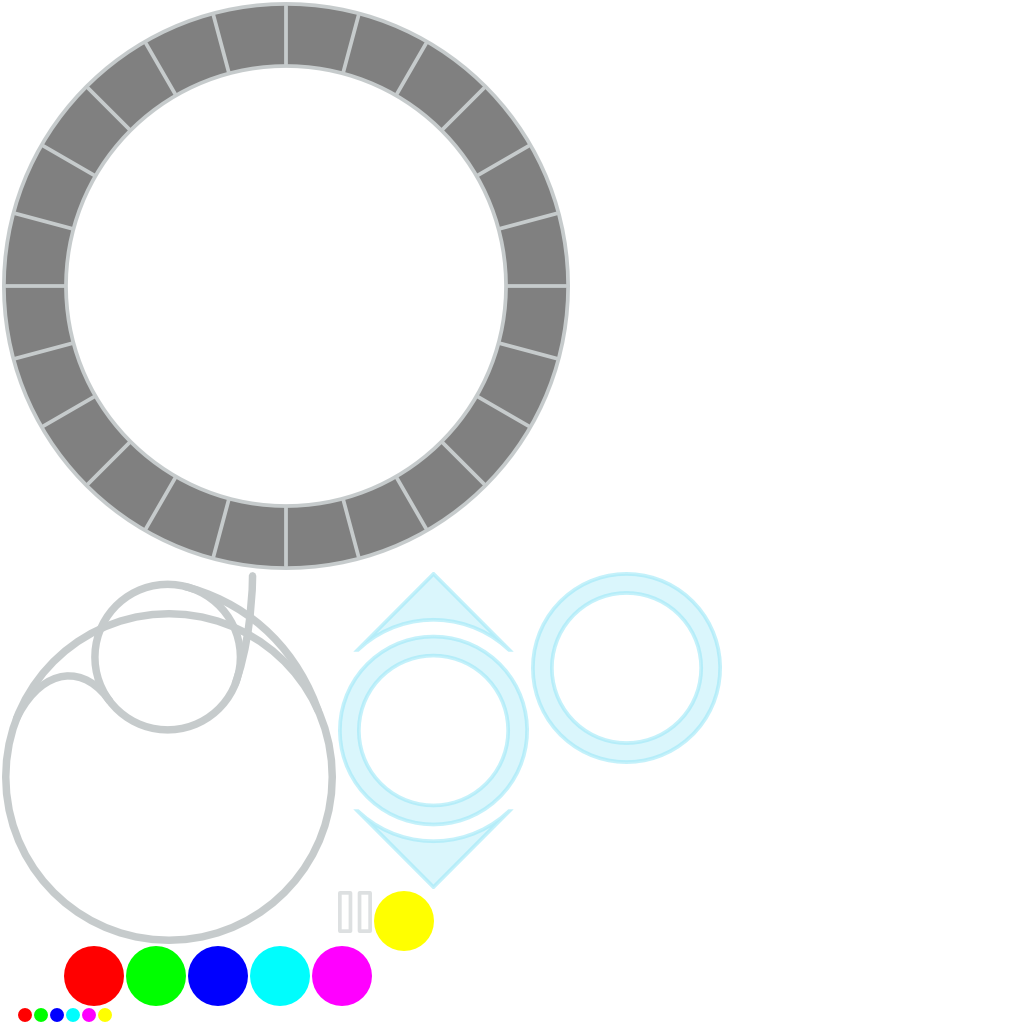
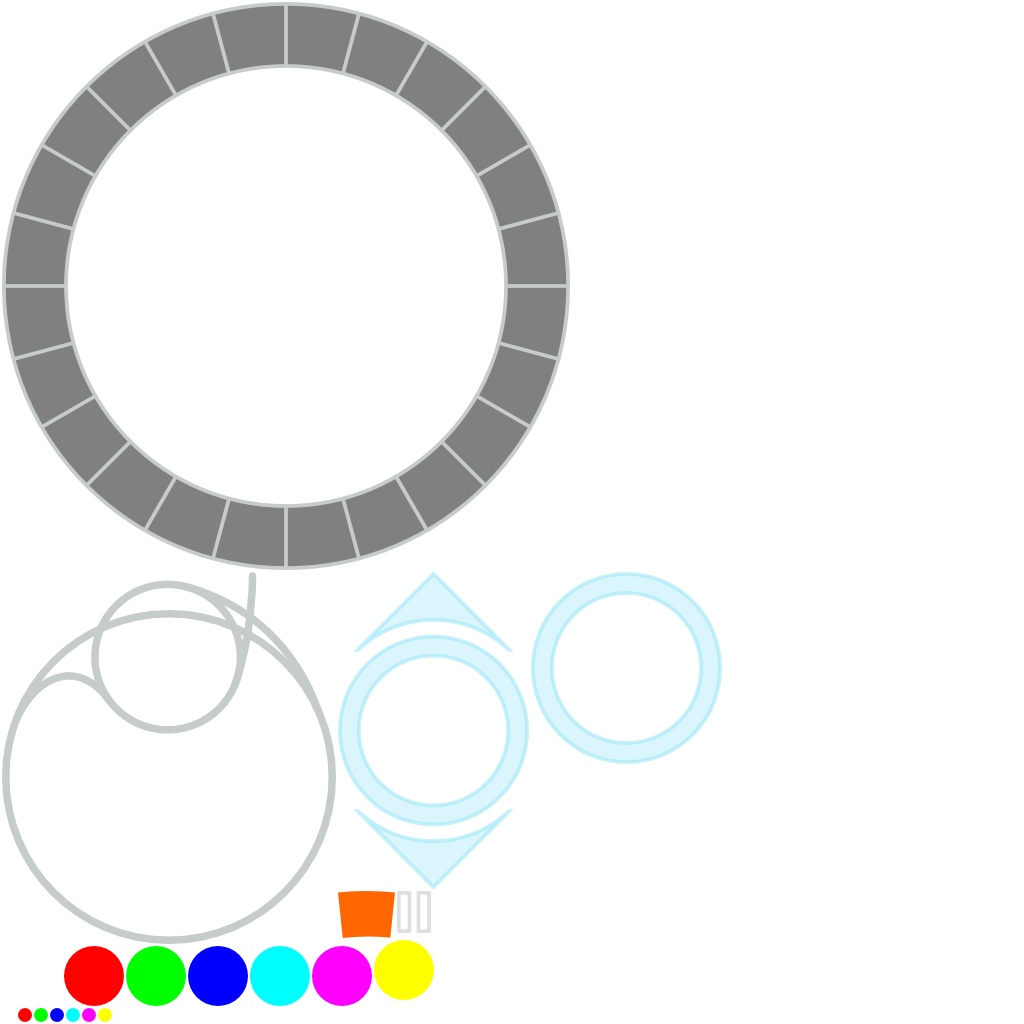
Blinking sensors.

Changed region(s): [[0.3125, 0.8438, 0.4375, 1.0]]

diff --git a/CharmQuark/Classes/LHCMap.m b/CharmQuark/Classes/LHCMap.m
@@ -33,7 +33,7 @@
     CGPoint antiClockPos = ccp(center.x + radius * cosf(antiClockwise),
                                center.y + radius * sinf(antiClockwise));
     [whitePacket setPosition:antiClockPos];
-
+    
 }
 
 -(void)setColor:(ParticleColors)color {
@@ -65,24 +65,11 @@
 }
 
 -(void)onEnter {
-    //        self.displayFrame = [CCSprite spriteWithSpriteFrameName:@"lhcmap.png"];
-    whitePacket = [CCSprite spriteWithSpriteFrameName:@"white-small.png"];
-    colorPacket = [CCSprite spriteWithSpriteFrameName:@"white-small.png"];
-    
-    //        [lhcMap setPosition:ccp(0,0)];
-    //        [self addChild:lhcMap z:0];
-    
-    radius = self.contentSize.height / 2.0 - whitePacket.contentSize.height / 4.0;
-    center = ccp(self.contentSize.width - self.contentSize.height / 2,
-                 self.contentSize.height / 2);
-    
-    clockwise = kcwStartAngle;
     CGPoint clockPos = ccp(center.x + radius * cosf(clockwise),
                            center.y + radius * sinf(clockwise));
     [colorPacket setPosition:clockPos];
     [self addChild:colorPacket z:10];
     
-    antiClockwise = kacwStartAngle;
     
     CGPoint antiClockPos = ccp(center.x + radius * cosf(antiClockwise),
                                center.y + radius * sinf(antiClockwise));
@@ -94,7 +81,20 @@
 
 -(id)init {
     // Load background LHCMap.png
-    return [super initWithSpriteFrameName:@"lhcmap.png"];
+    self = [super initWithSpriteFrameName:@"lhcmap.png"];
+    if (self) {
+        
+        whitePacket = [CCSprite spriteWithSpriteFrameName:@"white-small.png"];
+        colorPacket = [CCSprite spriteWithSpriteFrameName:@"white-small.png"];
+        
+        radius = self.contentSize.height / 2.0 - whitePacket.contentSize.height / 4.0;
+        center = ccp(self.contentSize.width - self.contentSize.height / 2,
+                     self.contentSize.height / 2);
+        
+        clockwise = kcwStartAngle;
+        antiClockwise = kacwStartAngle;
+    }    
+    return self;
 }
 
 @end

diff --git a/CharmQuark/Classes/Detector.m b/CharmQuark/Classes/Detector.m
@@ -1,0 +1,51 @@
+//
+//  Detector.m
+//  CharmQuark
+//
+//  Created by Nathan Babb on 7/19/12.
+//  Copyright 2012 Aether Theory, LLC. All rights reserved.
+//
+
+#import "Detector.h"
+#import "RemoveFromParentAction.h"
+
+@implementation Detector
+
+-(id)init {
+    self = [super initWithSpriteFrameName:@"detector.png"];
+    if (self) {
+        radius = self.contentSize.height * 0.445;
+        center = ccp(self.contentSize.width / 2,
+                     self.contentSize.height / 2);
+    }
+    return self;
+}
+
+-(void)blinkAtAngle:(CGFloat)angle {
+//    angle = 7.5 + 15;
+    CCSprite *light = [CCSprite spriteWithSpriteFrameName:@"blink.png"];
+    
+    CGFloat miss = fmodf(angle, 15.0f);
+    angle -= miss;
+    angle += 7.5;
+//    if (miss < 7.5) {
+//        angle += 15 - miss;
+//    } else {
+//        angle -= miss;
+//    }
+    light.rotation = 90 - angle;
+
+    // TODO: Limit angle to graphic subdivisions.
+    angle = CC_DEGREES_TO_RADIANS(angle);
+    light.position = ccp(center.x + radius * cosf(angle),
+                         center.y + radius * sinf(angle));
+
+    [self addChild:light z:100];
+    id fadeIn = [CCFadeIn actionWithDuration:0.5f];
+    id fadeOut = [CCFadeOut actionWithDuration:1.0f];
+    id remove = [RemoveFromParentAction action];
+    id seq = [CCSequence actions:fadeIn, fadeOut, remove, nil];
+    [light runAction:seq];
+}
+
+@end

diff --git a/CharmQuark/Classes/GameplayLayer.m b/CharmQuark/Classes/GameplayLayer.m
@@ -450,6 +450,7 @@ void collisionSeparate(cpArbiter *arb, cpSpace *space, GameplayLayer *self)
         [scoredParticles removeObject:particle];
         
         CCParticleSystemQuad *explosion = [particle explode];  // Play the explosion animation.
+        [detector blinkAtAngle:explosion.angle];
         explosion.position = [centerNode convertToWorldSpace:particle.position];
         [self addChild:explosion];
         
@@ -664,7 +665,7 @@ void collisionSeparate(cpArbiter *arb, cpSpace *space, GameplayLayer *self)
     [uiBatchNode addChild:map z:kZBackground];
     
     // Add the detector.
-    CCSprite *detector = [CCSprite spriteWithSpriteFrameName:@"detector.png"];
+    detector = [Detector node];
     detector.position = puzzleCenter;
     [uiBatchNode addChild:detector z:kZBackground];
     

diff --git a/CharmQuark/Classes/Detector.h b/CharmQuark/Classes/Detector.h
@@ -1,0 +1,19 @@
+//
+//  Detector.h
+//  CharmQuark
+//
+//  Created by Nathan Babb on 7/19/12.
+//  Copyright 2012 Aether Theory, LLC. All rights reserved.
+//
+
+#import <Foundation/Foundation.h>
+#import "cocos2d.h"
+
+@interface Detector : CCSprite {
+    CGPoint center;
+    CGFloat radius;
+}
+
+-(void)blinkAtAngle:(CGFloat)angle;
+
+@end

diff --git a/CharmQuark/Classes/GameplayLayer.h b/CharmQuark/Classes/GameplayLayer.h
@@ -11,6 +11,7 @@
 #import "LHCMap.h"
 #import "Constants.h"
 #import "Particle.h"
+#import "Detector.h"
 
 // Gameplay Constants
 #define kMinMatchSize           4
@@ -80,6 +81,7 @@ enum {
     LHCMap *map;
     CCSprite *thumbGuide;
     CCSprite *fireButton;
+    Detector *detector;
     
 	// Touch handling
     UITouch *rotationTouch;

diff --git a/CharmQuark/Classes/Particle.m b/CharmQuark/Classes/Particle.m
@@ -128,7 +128,7 @@
     // Gravity Mode: tagential
     emitter.tangentialAccel = 0;
     emitter.tangentialAccelVar = 0;
-    emitter.angle = fmodf((float)rand(), (float)RAND_MAX/360);
+    emitter.angle = fmodf((float)rand(), 360.0f);
     emitter.angleVar = 10;
     emitter.emissionRate = 10.0f;
     emitter.life = 0.5f;
